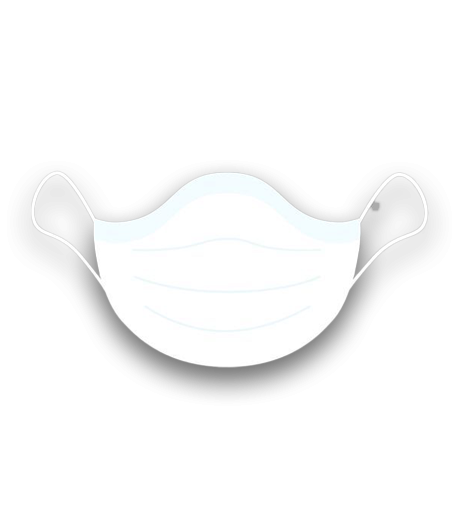
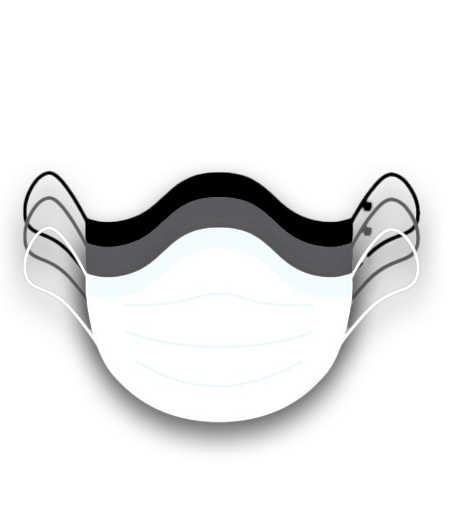
update detail produk

Changed region(s): [[0.0302, 0.3113, 0.9374, 0.8716], [0.0907, 0.3113, 0.121, 0.3424]]

diff --git a/resources/views/home/index.blade.php b/resources/views/home/index.blade.php
@@ -174,7 +174,7 @@
                         <div class="headphone-specifications-content">
                             <div class="single-specifications">
                                 <h4>Warna</h4>
-                                <span>Hitam / Putih</span>
+                                <span>Hitam / Putih / Abu</span>
                             </div>
 
                             <div class="single-specifications">
@@ -195,7 +195,7 @@
 
                             <div class="single-specifications">
                                 <h4>Batas pemakaian</h4>
-                                <span>3 sampai 7 kali</span>
+                                <span>1 Hari / 3 Hari / 7 Hari</span>
                             </div>
                         </div>
                     </div>
